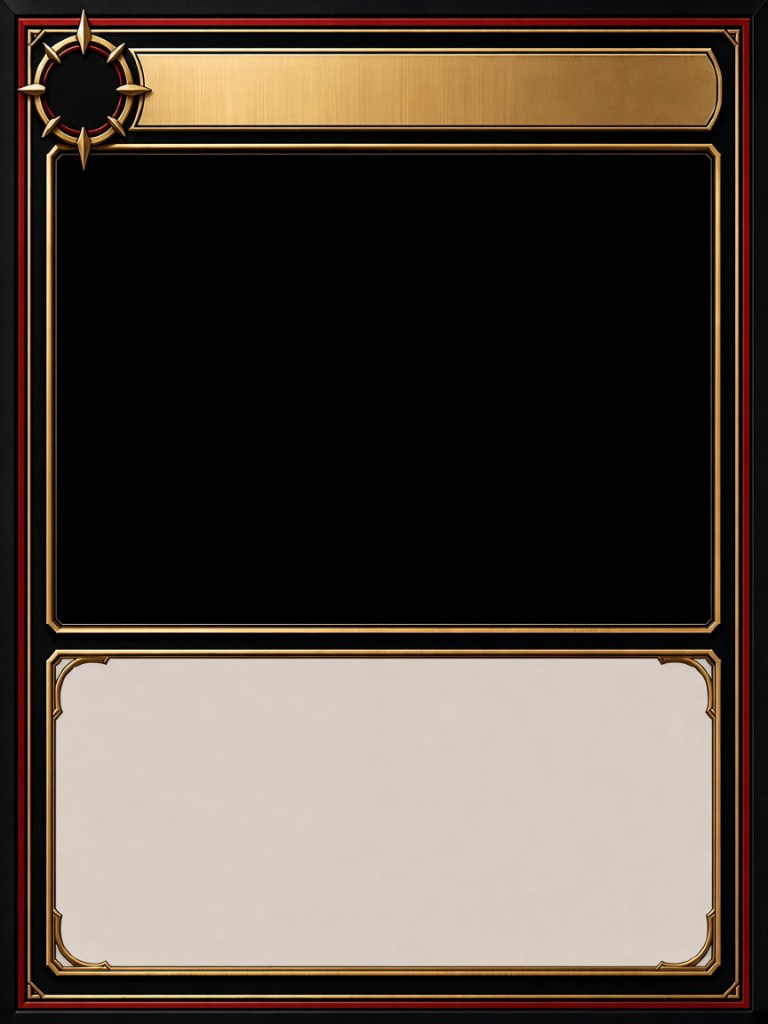
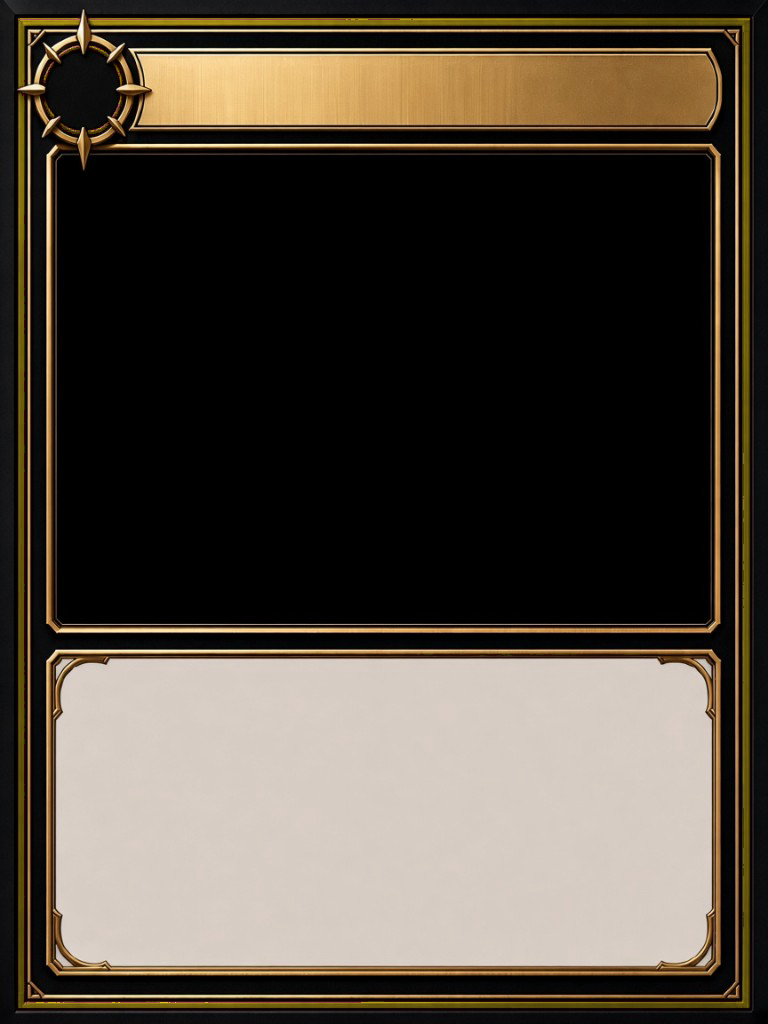
Rebuild the copper frame and recolor the metal accents.

Changed region(s): [[0.0, 0.0, 1.0, 1.0]]

diff --git a/index.html b/index.html
@@ -3559,9 +3559,9 @@
       background: var(--frame-img) center / 100% 100% no-repeat;
     }
     .card .card-fit .frame::before, .card .card-fit .frame::after { content: none; }
-    .card .card-fit.r1 { --frame-img: url("frame-star1.png?v=6"); }
-    .card .card-fit.r2 { --frame-img: url("frame-star2.png?v=6"); }
-    .card .card-fit.r3 { --frame-img: url("frame-star3-attack.png?v=6"); }
+    .card .card-fit.r1 { --frame-img: url("frame-star1.png?v=7"); }
+    .card .card-fit.r2 { --frame-img: url("frame-star2.png?v=7"); }
+    .card .card-fit.r3 { --frame-img: url("frame-star3-attack.png?v=7"); }
     .card .card-fit.k-attack.rboss { --frame-img: url("frame-attack-boss.png?v=3"); }
     .card .card-fit.k-block.rboss { --frame-img: url("frame-block-boss.png?v=3"); }
     .card .card-fit.k-skill.rboss { --frame-img: url("frame-skill-boss.png?v=3"); }
@@ -10136,9 +10136,9 @@
     }
 
     const CARD_STYLE = [
-      ["style-star1", "★ 銅", "frame-star1.png?v=6"],
-      ["style-star2", "★★ 銀", "frame-star2.png?v=6"],
-      ["style-star3", "★★★ 金", "frame-star3-attack.png?v=6"],
+      ["style-star1", "★ 銅", "frame-star1.png?v=7"],
+      ["style-star2", "★★ 銀", "frame-star2.png?v=7"],
+      ["style-star3", "★★★ 金", "frame-star3-attack.png?v=7"],
       ["style-red", "差し色 赤", "frame-metal-red.png?v=2"],
       ["style-blue", "差し色 青", "frame-metal-blue.png?v=2"],
       ["style-green", "差し色 緑", "frame-metal-green.png?v=2"],
